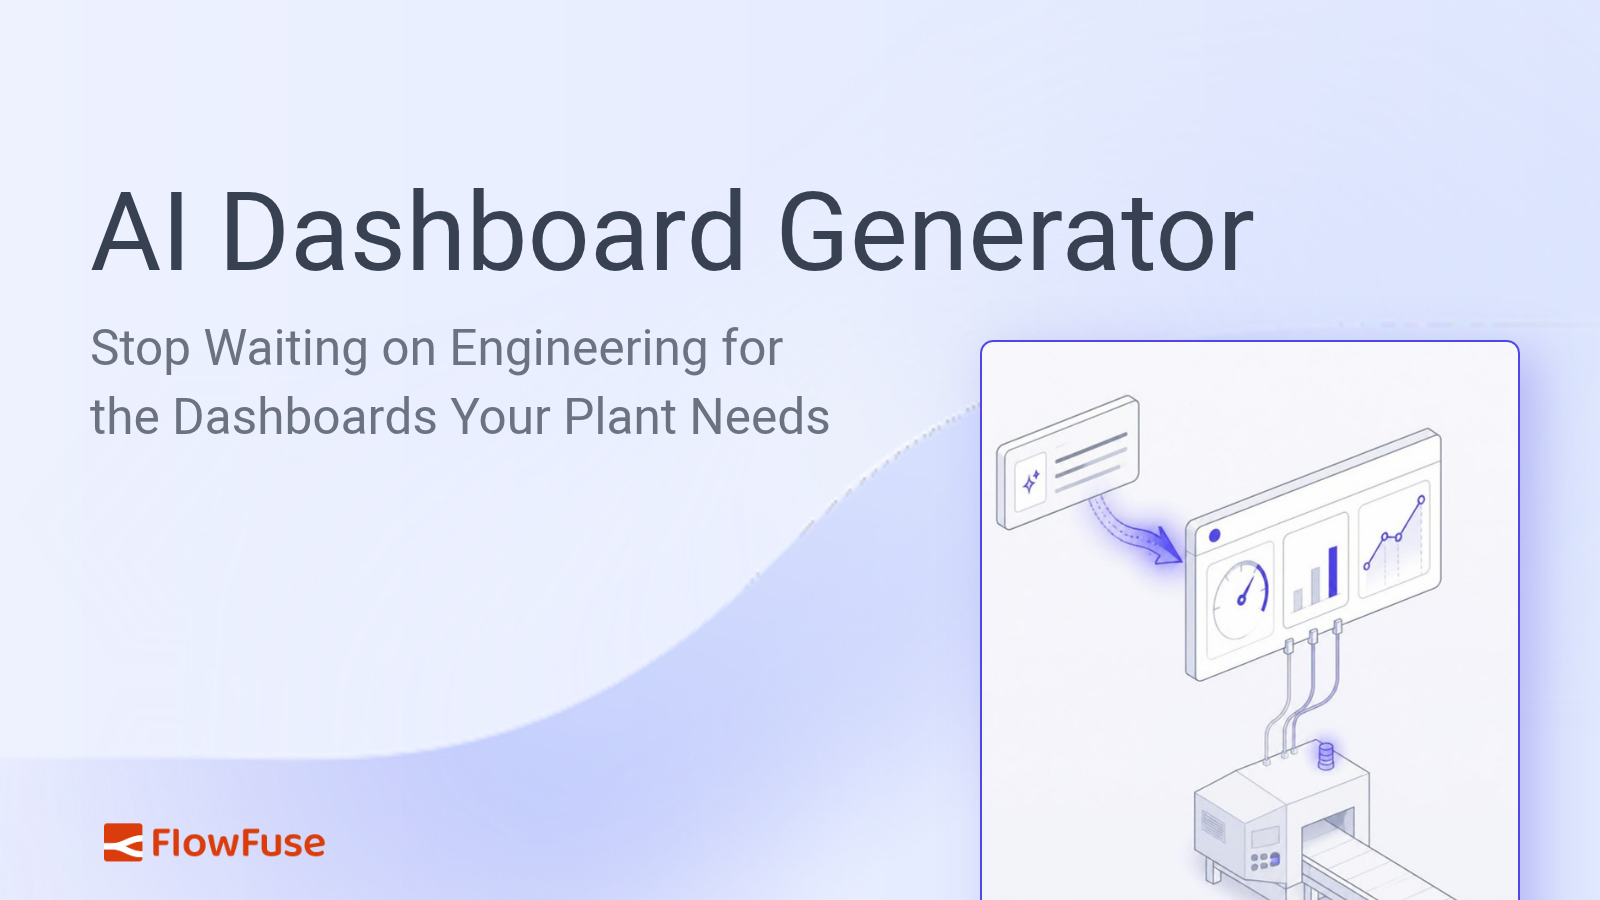
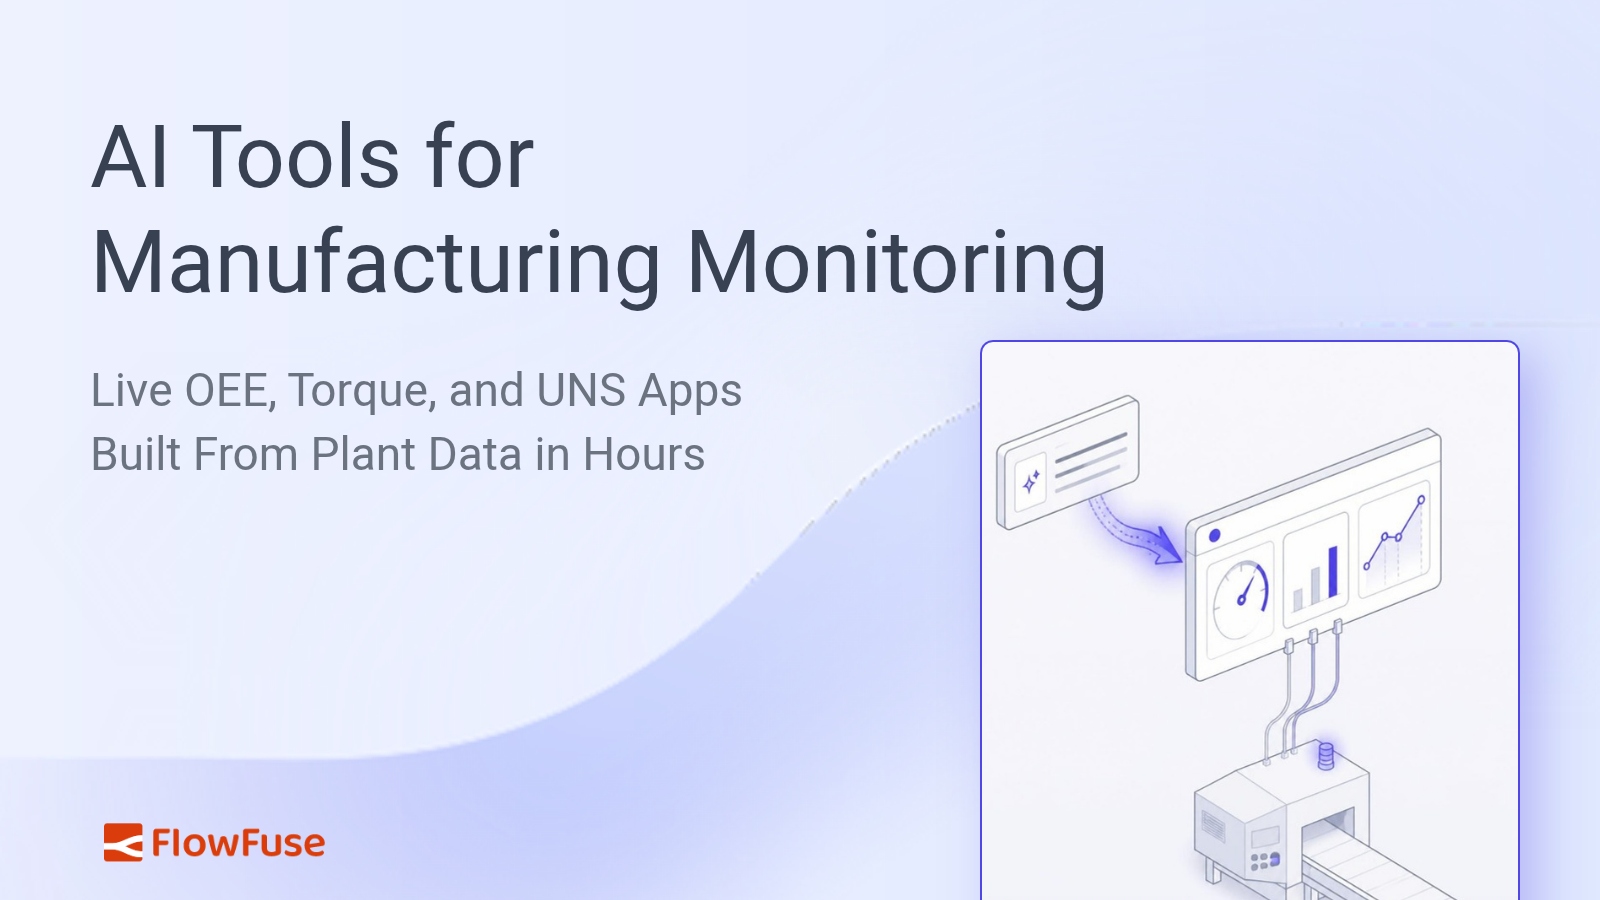
Retarget AI dashboard post to AI tools for manufacturing monitoring

Changed region(s): [[0.0625, 0.1244, 0.7812, 0.3422], [0.0312, 0.3733, 0.5312, 0.5289]]

diff --git a/nuxt/content/blog/2026/10/ai-tools-for-manufacturing-monitoring.md b/nuxt/content/blog/2026/10/ai-tools-for-manufacturing-monitoring.md
@@ -1,8 +1,8 @@
 ---
-title: "AI Dashboard Generator for Manufacturing: Stop Waiting on Engineering"
-metaTitle: "AI Dashboard Generator for Manufacturing"
-subtitle: "How manufacturing teams use AI and FlowFuse to build monitoring apps, dashboards, and data integrations in hours"
-description: "Use FlowFuse as an AI dashboard generator for manufacturing. Watch Claude build OEE, torque, and UNS dashboards from live plant data, with engineers approving every deploy."
+title: "AI Tools for Manufacturing Monitoring: Live OEE, Torque, and UNS Apps in Hours"
+metaTitle: "AI Tools for Manufacturing Monitoring"
+subtitle: "How manufacturing teams use AI and FlowFuse to build monitoring apps, dashboards, and data integrations from live plant data"
+description: "AI tools for manufacturing monitoring that build OEE, torque, and UNS dashboards from live plant data in hours, with engineers approving every deploy."
 date: 2026-10-20
 authors: ["sumit-shinde"]
 image: /blog/2026/10/images/ai-dashboard-generator.png
@@ -17,10 +17,10 @@ tldr:
   - "Engineers stay in control: AI only reaches what you grant, changes stay staged until someone deploys them, and every action is logged."
 meta:
   faq:
-    - question: "What is an AI dashboard generator for manufacturing?"
-      answer: "It is a tool that builds a dashboard from a plain-language description instead of hand-built code. With FlowFuse, AI connects to plant data sources such as PLCs, Modbus devices, and MQTT brokers, writes the logic behind each metric, and builds the [dashboard](/platform/dashboard/), which engineers review before it goes live."
-    - question: "Can AI build industrial applications?"
-      answer: "Yes. AI connected to FlowFuse, such as FlowFuse Expert or Claude, can build Node-RED flows and dashboards from a plain-language prompt, working against real plant data from sources such as [PLCs over OPC UA](/blog/2025/07/reading-and-writing-plc-data-using-opc-ua/), Modbus devices, and MQTT brokers. Engineers still review and validate the result before it goes into production."
+    - question: "What are AI tools for manufacturing monitoring?"
+      answer: "They are AI tools that build monitoring dashboards and apps from a plain-language description instead of hand-built code. With FlowFuse, AI connects to plant data sources such as PLCs, Modbus devices, and MQTT brokers, writes the logic behind each metric, and builds the [dashboard](/platform/dashboard/), which engineers review before it goes live."
+    - question: "How is this different from buying machine monitoring software?"
+      answer: "Packaged machine monitoring software gives you the screens and metrics its vendor chose. With AI building on FlowFuse, the app is shaped around your own machines, data sources, and process, and your team can extend it when a new metric or line comes along instead of waiting on a vendor roadmap."
     - question: "Which AI tools work with FlowFuse?"
       answer: "You can use [FlowFuse Expert](/docs/user/expert/), the AI assistant built into FlowFuse, or [connect your own AI over MCP](/docs/user/expert/third-party-agents/). Any MCP client that supports the HTTP transport works, including Claude, command-line and editor tools, and local models."
     - question: "Is it safe to let AI change industrial applications?"
@@ -39,7 +39,7 @@ Manufacturing teams are full of ideas for improving operations. They want better
 
 It's a common story. In a [discussion on r/manufacturing](https://www.reddit.com/r/manufacturing/comments/1olnyoc/), one manufacturing professional described having an improvement idea with a clear return on investment but struggling to get it built because engineering resources were tied up elsewhere.
 
-AI offers a way to move these projects forward. Used as an AI dashboard generator, it lets engineers describe an application in plain language and get a working version in hours rather than weeks. They can then review the implementation, verify the data and logic, and approve changes before the application reaches production.
+AI offers a way to move these projects forward. With AI tools for manufacturing monitoring, engineers describe the application they need in plain language and get a working version in hours rather than weeks. They can then review the implementation, verify the data and logic, and approve changes before the application reaches production.
 
 ::cta-image{alt="Build the dashboard your line needs: describe it in plain language, connect live PLC and MQTT data, and review every change before deploy - book a FlowFuse demo" cta="demo" src="/blog/2026/10/images/ai-dashboard-generator-cta.png"}
 ::
@@ -50,22 +50,22 @@ Custom industrial software is slow and expensive to build. Software development 
 
 That's a reasonable price for a major project. For smaller improvements, it's hard to justify. Automating a shift report, building a dashboard for one line, or sending machine alarms to the maintenance team all have clear benefits, yet they rarely make it to the top of the backlog.
 
-So teams keep working with spreadsheets, manual reports, and systems that don't talk to each other. Engineers spend their time maintaining workarounds instead of building improvements, and operators wait for information that could reach them as it happens.
+So teams keep working with spreadsheets, manual reports, and systems that don't talk to each other. Engineers spend their time maintaining workarounds instead of building the continuous improvement tools the plant needs, and operators wait for information that could reach them as it happens.
 
-## FlowFuse as an AI Dashboard Generator for Industrial Data
+## How FlowFuse Gives AI Access to Your Plant Data
 
 Cutting that effort only helps if the result works on the plant floor. An industrial application has to read real machine data, connect to existing systems, and encode how the process actually runs. FlowFuse is an industrial application platform that handles those connections to [PLCs](/landing/plc/), [MQTT brokers](/docs/user/teambroker/), [databases](/docs/node-red/database/), [MES](/use-cases/mes/), and [ERP](/blog/2025/06/connect-shop-floor-to-odoo-erp-flowfuse/), and gives AI the tools to build on top of them.
 
 There are two ways to work with it:
 
 - **[FlowFuse Expert](/docs/user/expert/)** is the AI assistant built into FlowFuse. Ask it a question or describe a change, and it works directly in your instances.
-- **[Your own AI](/docs/user/expert/third-party-agents/)**, such as Claude or any other MCP client that supports the HTTP transport, connects to FlowFuse over MCP. This suits organizations whose policy only permits a company-approved AI.
+- **[Your own AI](/docs/user/expert/third-party-agents/)**, such as Claude or any other MCP client that supports the HTTP transport, connects to FlowFuse over MCP. FlowFuse exposes its [platform and flow-building tools](/docs/user/mcp/) to the AI you connect, so it can read your instances, write flows, and build dashboards itself. This suits organizations whose policy only permits a company-approved AI.
 
 Either way, the AI builds flows and dashboards directly in FlowFuse, where they sit alongside everything else you run. That means the app gets the same management as any other FlowFuse application. Snapshots keep a version history you can roll back to, role-based access decides who can change it, and you can deploy it to other lines or sites. When the first version needs a new metric or another machine, you extend the app you already have instead of starting over.
 
-### Watch Claude Build Three Industrial Applications
+### Three Monitoring Apps Claude Built in FlowFuse
 
-Here is what that looks like in practice. In each of the three demos below, Claude is connected to FlowFuse and starts from a request written in plain language, with no code written by hand. The videos are sped up to keep them short, but the clock in the corner shows how long each build really took.
+Here is what that looks like in practice. In each of the three demos below, Claude is connected to FlowFuse over MCP and starts from a request written in plain language, with no code written by hand. The videos are sped up to keep them short, but the clock in the corner shows how long each build really took.
 
 #### Turning Legacy Modbus Data into a Unified Namespace in 13 Minutes
 
@@ -110,7 +110,7 @@ These times measure how long it takes to reach a working first version. Before p
 
 ## Governance and Human Oversight for AI
 
-Reviewing the result is one half of staying in control. The other half is limiting what the AI can reach, what it can change, and who signs off.
+In the demos, AI acted as a copilot for manufacturing engineers: it did the building, and they decided what shipped. Reviewing the result is one half of staying in control. The other half is limiting what the AI can reach, what it can change, and who signs off.
 
 When you connect Claude or another AI, you choose which teams it can access and whether it can make changes, and FlowFuse enforces that grant on every call. A read-only connection stays read-only, and no AI can delete an instance, application, snapshot, or team.
 
